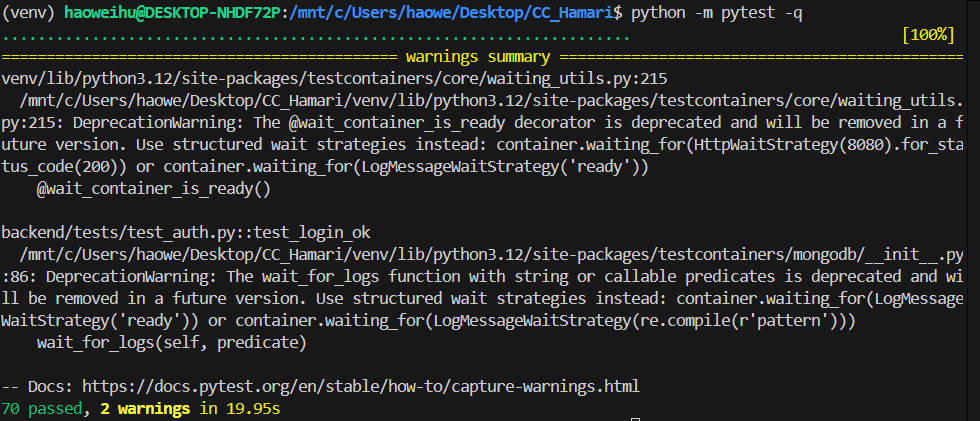
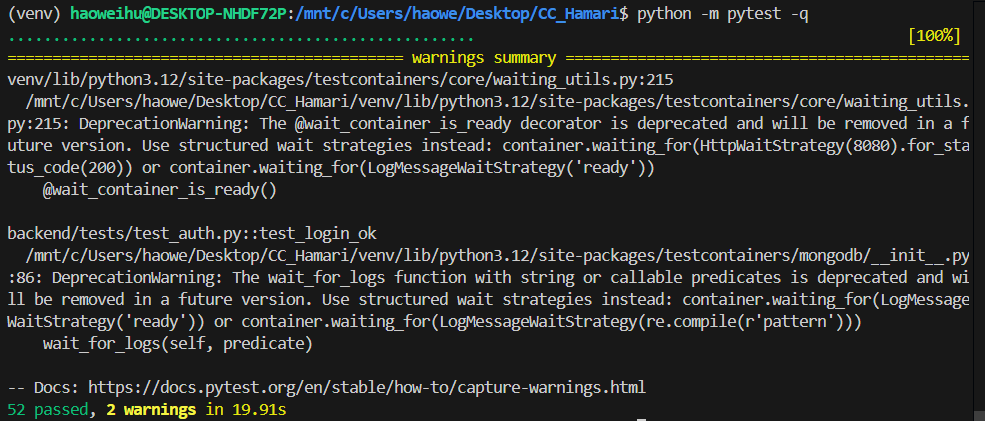
mini fix hito3

diff --git a/backend/tests/test_auth.py b/backend/tests/test_auth.py
@@ -119,23 +119,3 @@ def test_unauthorized_access_without_token(client, db):
     
     r = client.post("/api/offers/", json={})
     assert r.status_code == 401
-
-
-def test_admin_has_full_access(client, db):
-    """Admin tiene acceso completo a todas las rutas"""
-    seed_user(db, "admin@hamari.com", "admin", pwd="admin123")
-    token = login_token(client, "admin@hamari.com", "admin123")
-    
-    # Admin puede crear ofertas para cualquier provider
-    payload = {
-        "provider_dni": "23456789C",
-        "title": "Test Offer",
-        "description": "desc",
-        "price": 50.0,
-        "people_included": 2,
-        "available_from": "01/11/2025",
-        "available_to": "03/11/2025",
-        "daily_capacity": 5
-    }
-    r = client.post("/api/offers/", headers=ah(token), json=payload)
-    assert r.status_code == 201

diff --git a/docs/hito3.md b/docs/hito3.md
@@ -129,8 +129,6 @@ Tal como se recoge en el hito 2, la suite de pruebas del backend se ejecuta con 
 python -m pytest -q
 ```
 
-A diferencia del hito anterior, se han añadido tests para cubrir los servicios debido al desacoplamiento de la logica de negocio. 
-
 En la siguiente imagen se puede ver los resultados de una ejecución: 
 
 ![Ejemplo resultado pytest](../imgs/pytest.png)
@@ -139,3 +137,4 @@ En la siguiente imagen se puede ver los resultados de una ejecución:
 ## Documentación adicional
 - [Framework elegido ](./hito3/framework.md)
 - [Elección sistema de Logs](./hito3/log.md)
+- [Hito 2](hito2.md)
